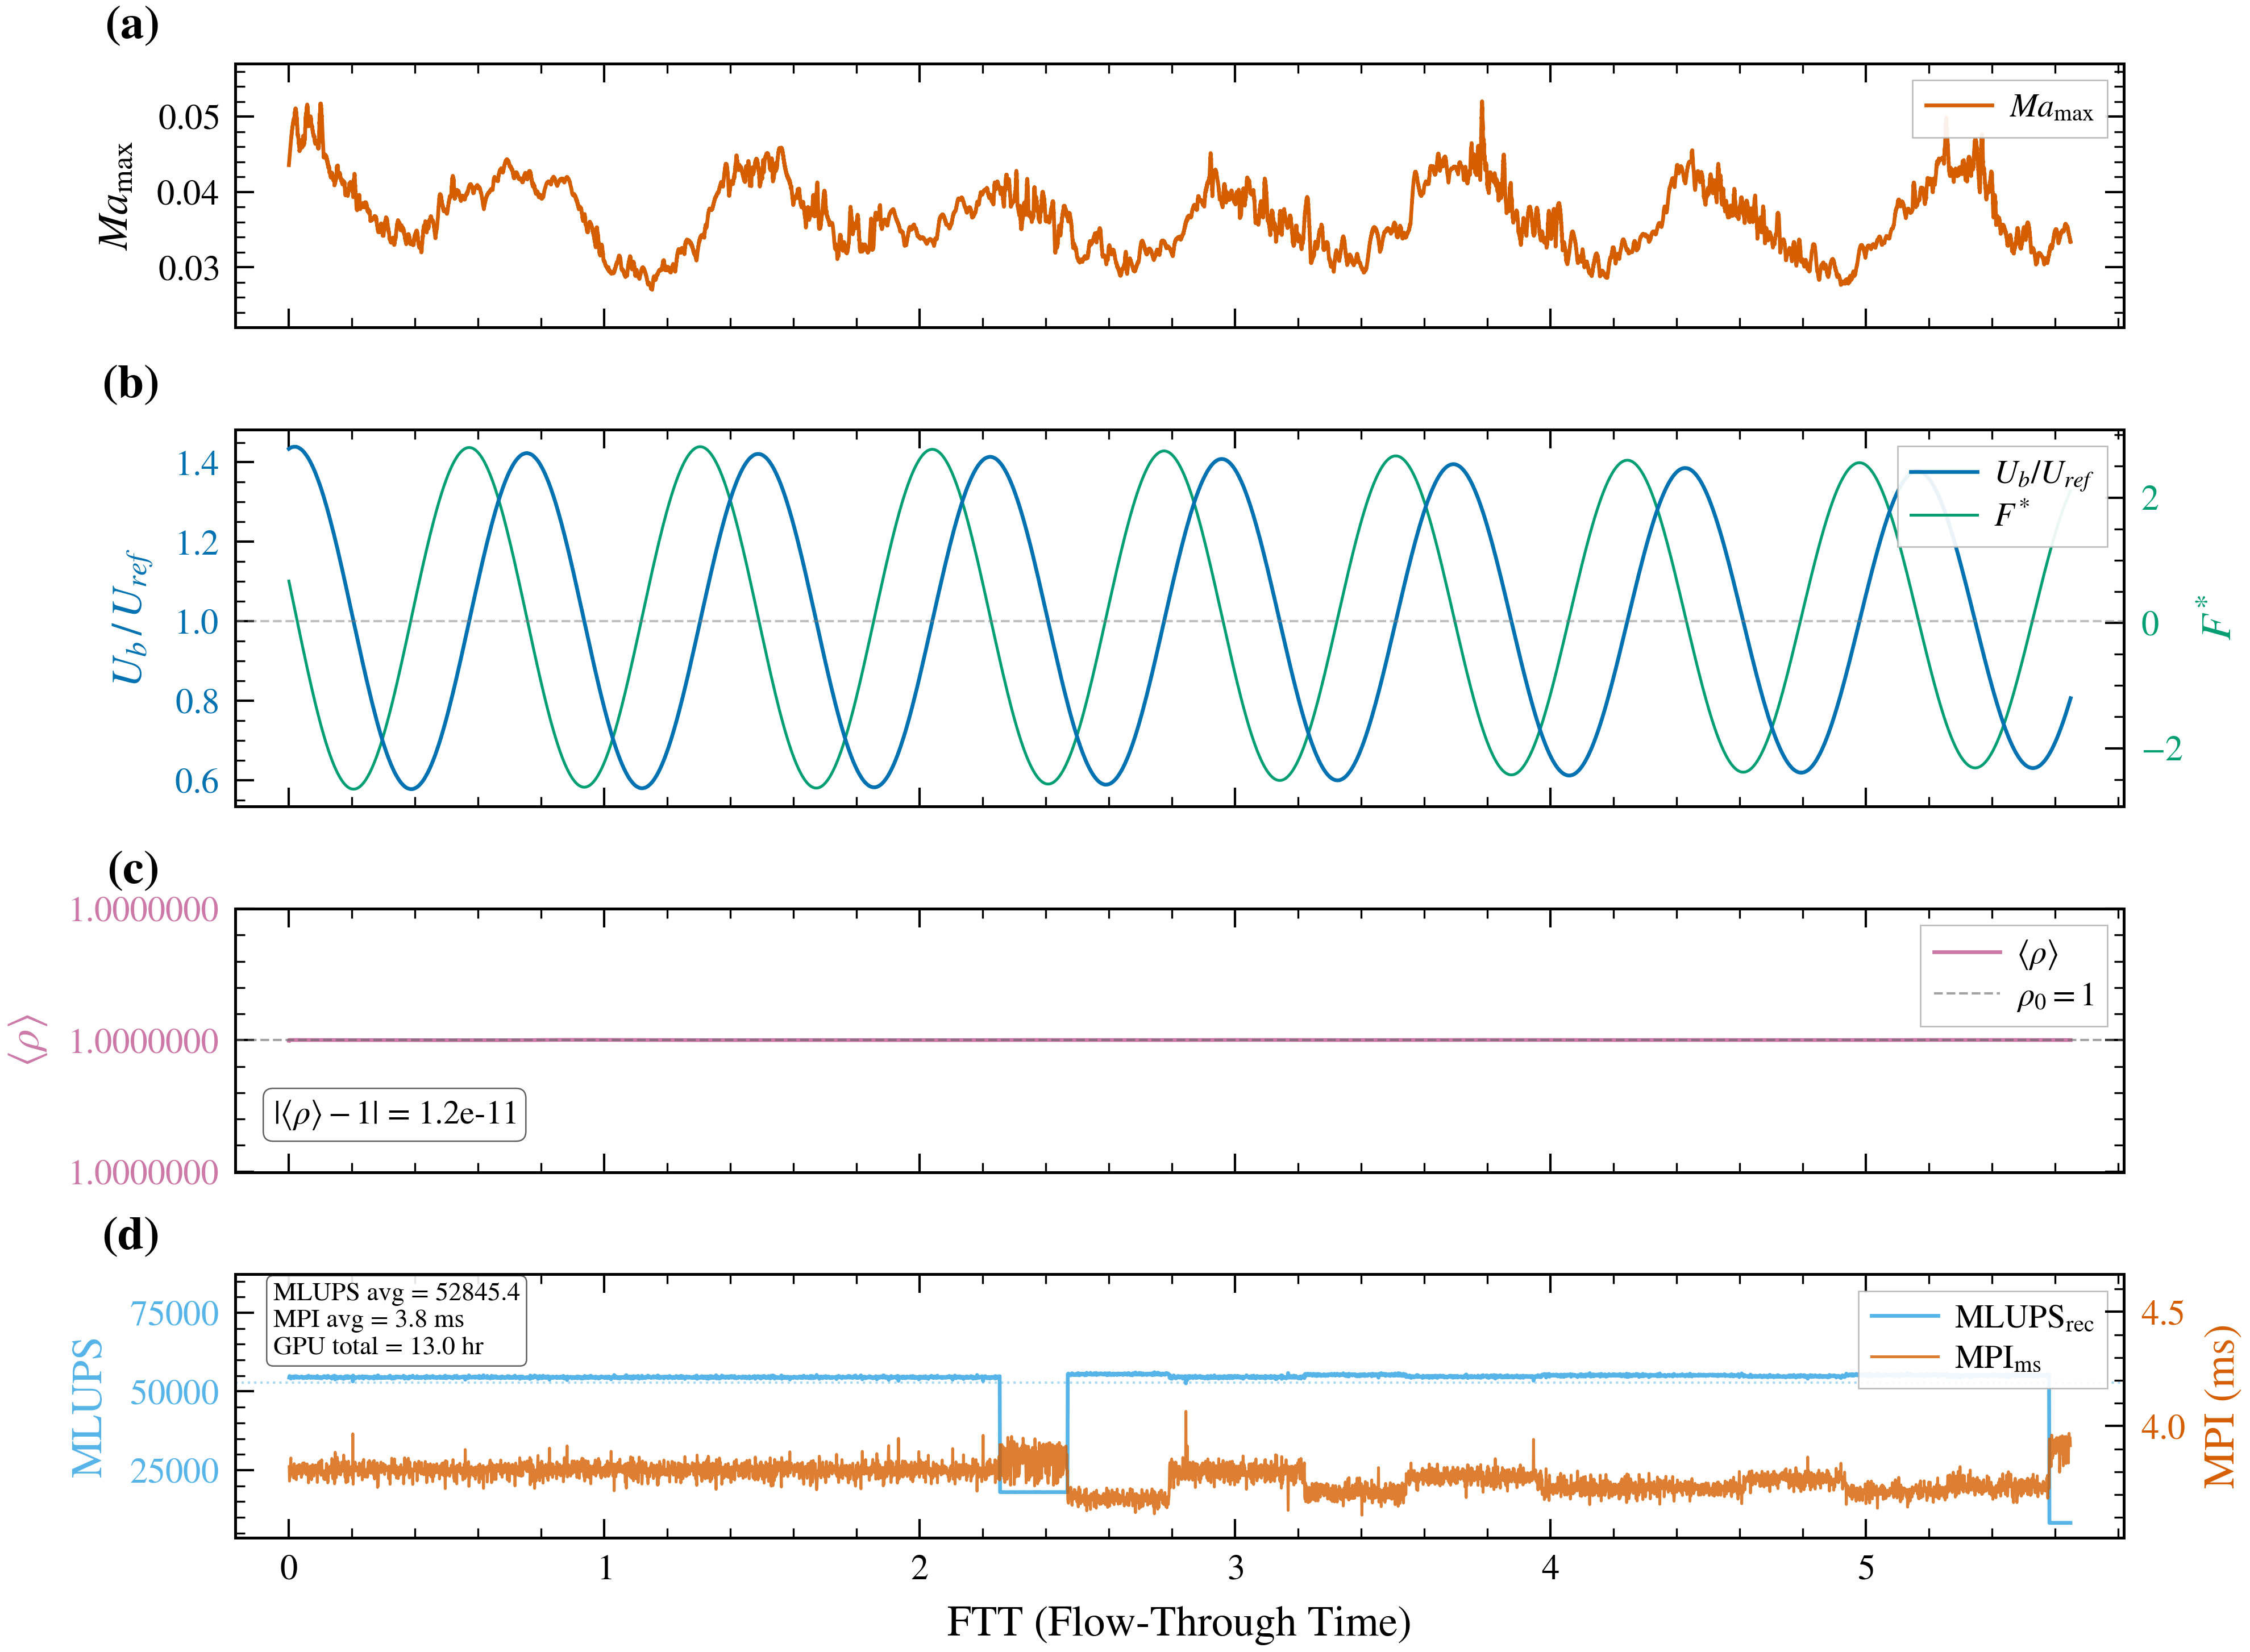
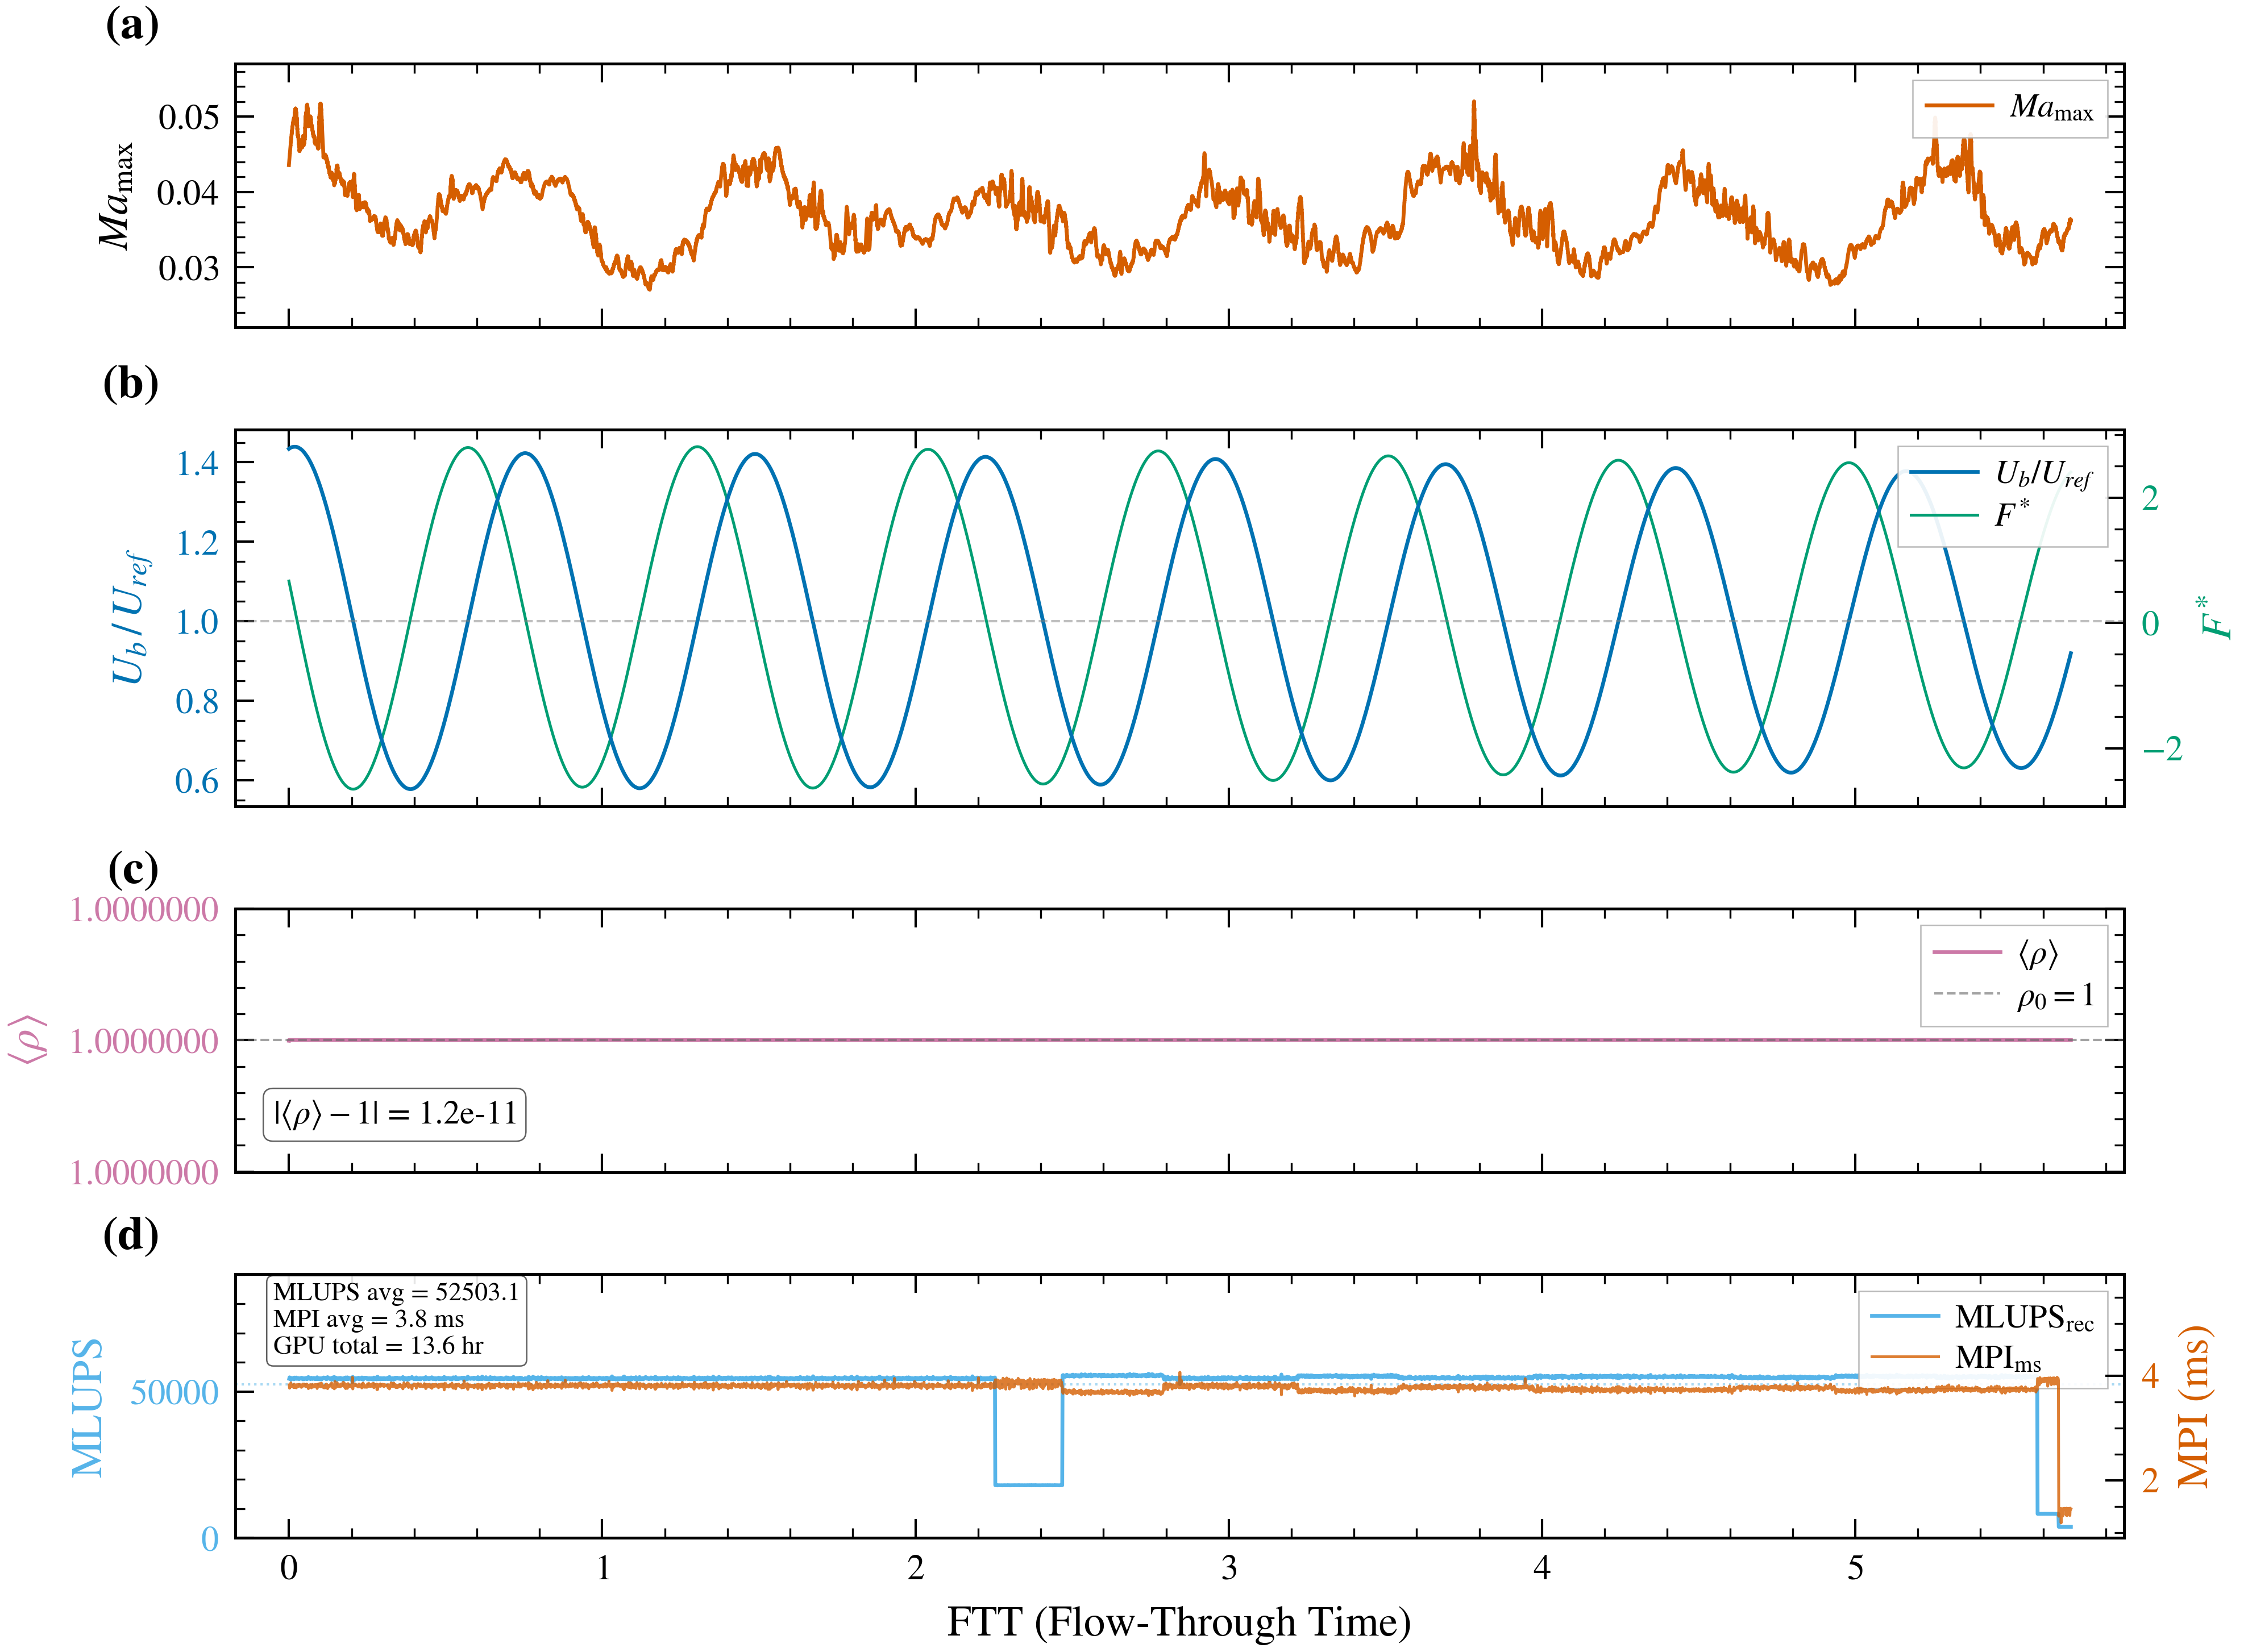
jp 8→16 保流場切換,落 dev|16;移除 jp=8 候選
- variables.h: jp 8→16 (重編 a.out.H200, NYD6=63, slab=56)
- jobscript H200/GB200: --nodes→2/4, mpirun -np→16, NTASKS:-16
- submit_dispatcher.sh: JP_CANDIDATES 移除 8 → {128,64,32,16}
- checkpoint 點對點 repartition 8→16 (零插值, xcheck bit 一致, ρ=1.0)
- 新 head 75354 jp=16@dev RUNNING (MST115169 dev 帳號額度獨立於 Edit8)

diff --git a/variables.h b/variables.h
@@ -81,7 +81,7 @@
 #define     NX      449         // 展向格點
 #define     NY      897         // 流向格點 (需 (NY-1)%jp==0; 896%128==0 → 896/128=7)
 #define     NZ      449         // 法向格點
-#define     jp      8         //  GPU 數量 (流向分割)
+#define     jp      16         //  GPU 數量 (流向分割)
 
 // 含 ghost zone 的陣列維度 (自動計算, 勿手動修改)
 //   ghost 結構: [3 ghost | N nodes | 3 ghost]